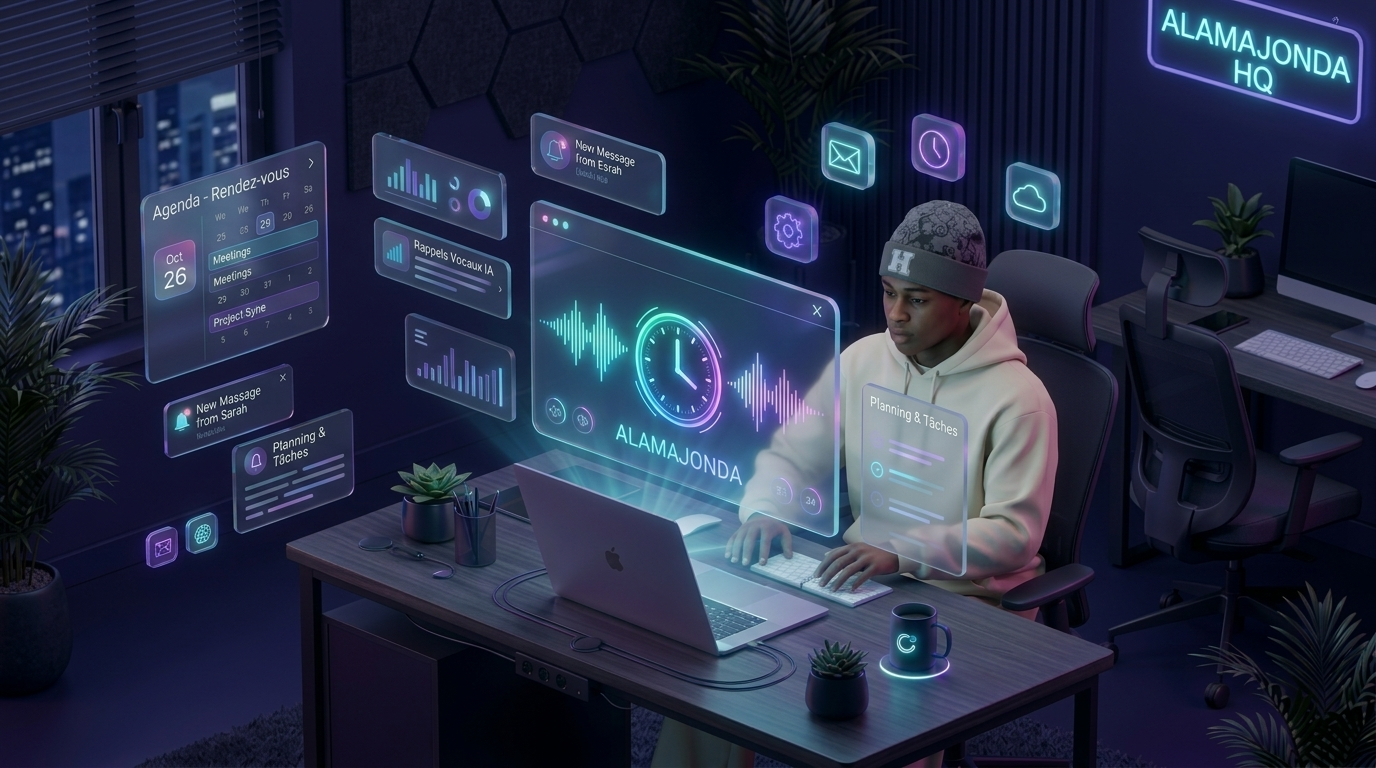
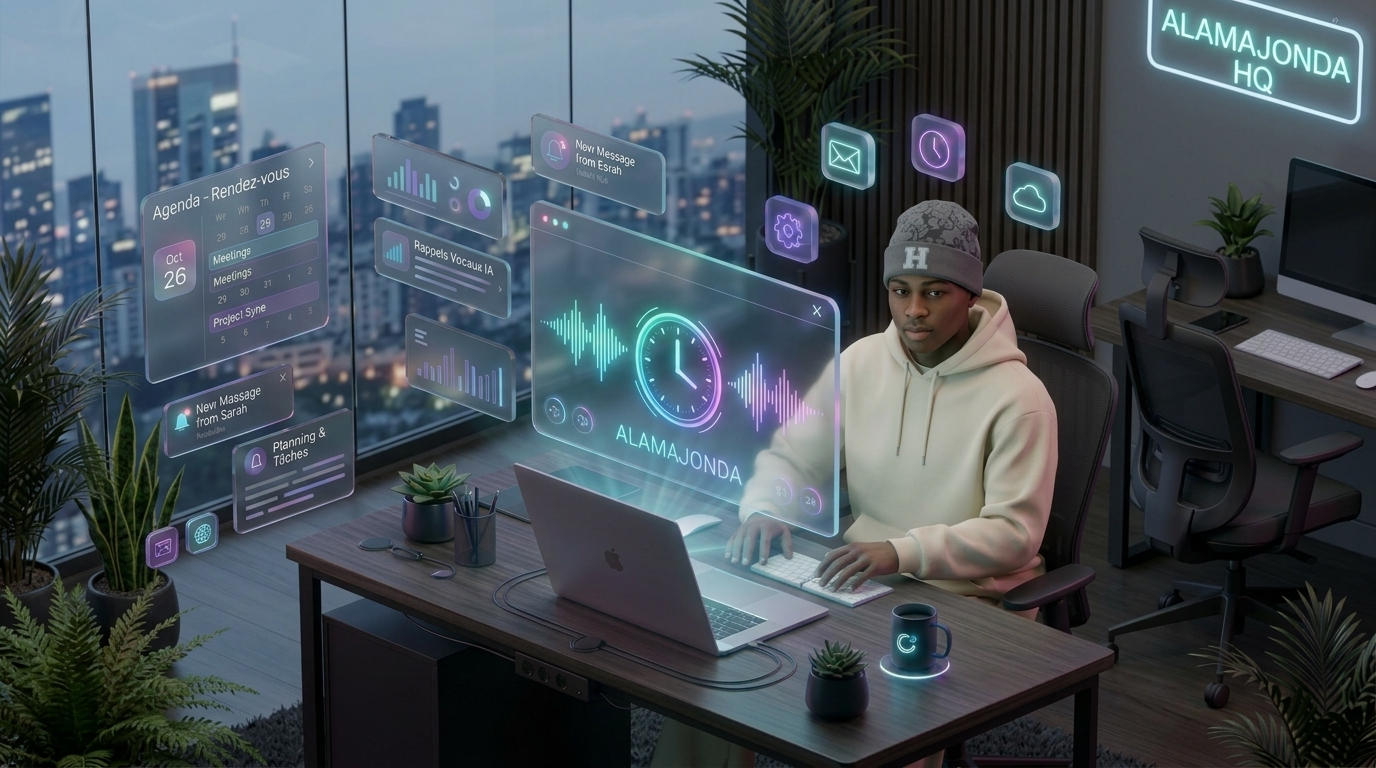
feat(design): balance hero alignment, shift headline inward with breathing room and upgrade to ultra-realistic 3D artwork

diff --git a/components/landing/Hero.tsx b/components/landing/Hero.tsx
@@ -14,25 +14,26 @@ export default function Hero() {
       <div className="absolute top-10 left-10 w-80 h-80 bg-cyan-500/15 rounded-full blur-3xl pointer-events-none -z-10" />
       <div className="absolute bottom-10 right-10 w-96 h-96 bg-purple-600/20 rounded-full blur-3xl pointer-events-none -z-10" />
 
-      <div className="max-w-6xl mx-auto px-4 sm:px-6 lg:px-8 relative z-10">
+      <div className="max-w-7xl mx-auto px-6 sm:px-10 lg:px-16 relative z-10">
         
-        {/* Main Grid: Headline Left, 3D Right */}
-        <div className="grid lg:grid-cols-12 gap-8 lg:gap-8 items-center mb-16 sm:mb-24">
+        {/* Main Grid: Balanced spacing with generous margins */}
+        <div className="grid lg:grid-cols-12 gap-10 lg:gap-12 items-center mb-16 sm:mb-24">
           
-          {/* Left Column: Headline detached from the edge and brought closer to the image */}
-          <div className="lg:col-span-6 flex flex-col justify-center items-start lg:pl-8 xl:pl-12">
-            <div className="max-w-lg">
-              <h1 className="text-3xl sm:text-4xl lg:text-[2.85rem] xl:text-[3.2rem] font-black text-white tracking-tight leading-[1.15]">
-                Votre temps, orchestré avec{" "}
-                <span className="bg-gradient-to-r from-cyan-400 via-teal-300 to-blue-400 bg-clip-text text-transparent block mt-1">
+          {/* Left Column: Headline nicely centered and shifted toward the center/image */}
+          <div className="lg:col-span-5 flex flex-col justify-center items-start lg:items-end lg:pr-2">
+            <div className="w-full max-w-lg lg:text-left">
+              <h1 className="text-3xl sm:text-4xl lg:text-[2.75rem] xl:text-[3.1rem] font-black text-white tracking-tight leading-[1.18]">
+                Votre temps, <br />
+                orchestré avec <br />
+                <span className="bg-gradient-to-r from-cyan-400 via-teal-300 to-blue-400 bg-clip-text text-transparent">
                   une précision absolue.
                 </span>
               </h1>
             </div>
           </div>
 
-          {/* Right Column: 3D Isometric AI Workspace Scene (6 cols) */}
-          <div className="lg:col-span-6 relative">
+          {/* Right Column: 3D Isometric AI Workspace Scene (7 cols) */}
+          <div className="lg:col-span-7 relative">
             
             {/* Glowing Aura behind 3D image */}
             <div className="absolute -inset-2 bg-gradient-to-tr from-cyan-500/30 via-indigo-600/30 to-purple-600/30 rounded-[2rem] blur-2xl opacity-75 pointer-events-none" />
@@ -42,13 +43,13 @@ export default function Hero() {
               
               {/* Ultra-Fast Next.js Image with Preload Priority */}
               <Image
-                src="/images/alamajonda-founder-workspace.webp"
+                src="/images/alamajonda-founder-v3.webp"
                 alt="Alamajonda - Le fondateur au bureau avec l'assistant vocal IA et agenda holographique"
                 width={1376}
                 height={768}
                 priority={true}
                 quality={95}
-                sizes="(max-width: 1024px) 100vw, 600px"
+                sizes="(max-width: 1024px) 100vw, 700px"
                 className="w-full h-full object-cover transform group-hover:scale-105 transition-transform duration-700"
               />
 
